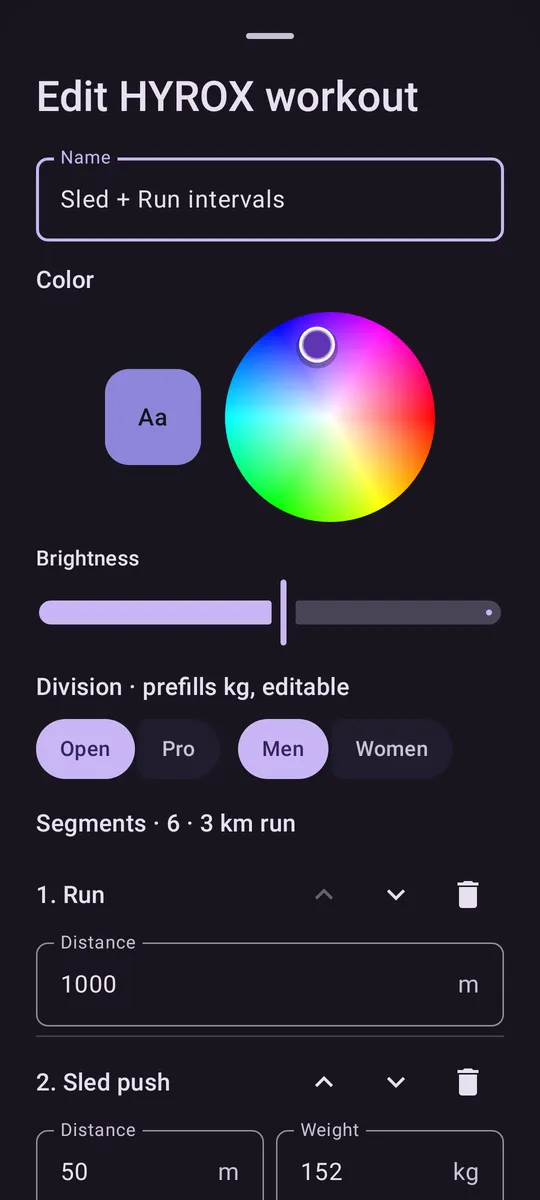
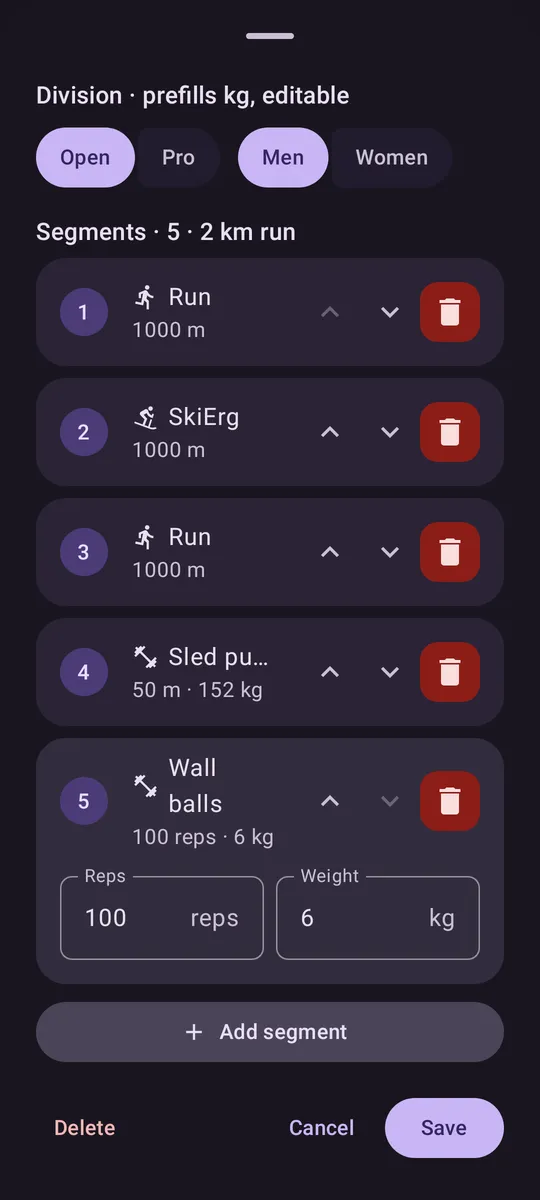
Help: 2.1.2 HYROX race editor (segment cards, Full race/Add segment, grouped picker)

diff --git a/help/index.html b/help/index.html
@@ -21,7 +21,7 @@
 </head>
 <body>
   <h1>How to use Liftloq</h1>
-  <p class="meta">Local workout calendar · No account required · Updated for version 2.1.0</p>
+  <p class="meta">Local workout calendar · No account required · Updated for version 2.1.2</p>
 
   <p>Liftloq keeps your workout plan on your device. Mark days on the calendar, manage workout types, plan and time HYROX workouts, and optionally track supplement spending — without signing in.</p>
 
@@ -69,7 +69,7 @@
 
   <h2>4. HYROX β</h2>
   <ol class="steps">
-    <li><strong>Builder:</strong> menu (☰) → <strong>HYROX (beta)</strong> → <strong>+</strong>. Name the workout, pick a colour and division, add segments (or tap <strong>+ Full race</strong> for the 16 official ones), then <strong>Save</strong>. If segments already exist, Full race asks to replace them.</li>
+    <li><strong>Builder:</strong> menu (☰) → <strong>HYROX (beta)</strong> → <strong>+</strong>. Name the workout, pick a colour and division, then tap <strong>+ Full race</strong> for the 16 official segments or <strong>+ Add segment</strong> to pick runs and stations from a grouped list. A new segment opens ready to edit (distance or reps, weight); tap any card to open it, use the arrows to reorder and the red trash to delete it. Then <strong>Save</strong>.</li>
     <li><strong>Delete:</strong> on the HYROX list, tap the red trash on a workout (or Delete inside the editor). Confirm — sessions are removed and the workout is cleared from every calendar day. Official race is not re-seeded after you delete it.</li>
     <li><strong>Plan it:</strong> on a day sheet, open <strong>HYROX workouts</strong> and pick one or more, then <strong>Save</strong>.</li>
     <li><strong>Start HYROX:</strong> on a day with a planned HYROX workout, a <strong>Start HYROX</strong> button appears above the add button. With several planned, it opens a menu to choose one.</li>
@@ -86,13 +86,13 @@
     <figcaption>Delete confirm: sessions and calendar days are counted before you confirm.</figcaption>
   </figure>
   <figure>
-    <img src="images/help-hyrox-full-race.webp" alt="New HYROX workout filled with Full race" loading="lazy" width="540" height="1200" />
-    <figcaption>New workout: <strong>+ Add segment</strong> and <strong>+ Full race</strong> sit side by side.</figcaption>
+    <img src="images/help-hyrox-full-race.webp" alt="New HYROX workout with Full race and Add segment buttons" loading="lazy" width="540" height="1200" />
+    <figcaption>New workout: <strong>+ Full race</strong> and <strong>+ Add segment</strong> side by side. Full race is only offered while the list is empty.</figcaption>
   </figure>
 
   <figure>
     <img src="images/help-hyrox-builder.webp" alt="HYROX workout builder" loading="lazy" width="540" height="1200" />
-    <figcaption>Builder: name, colour, division and segments.</figcaption>
+    <figcaption>Segment cards: number, icon, summary, reorder and delete; the newly added segment is open for editing.</figcaption>
   </figure>
   <figure>
     <img src="images/help-start-hyrox-menu.webp" alt="Start HYROX menu with two planned workouts" loading="lazy" width="540" height="1200" />
